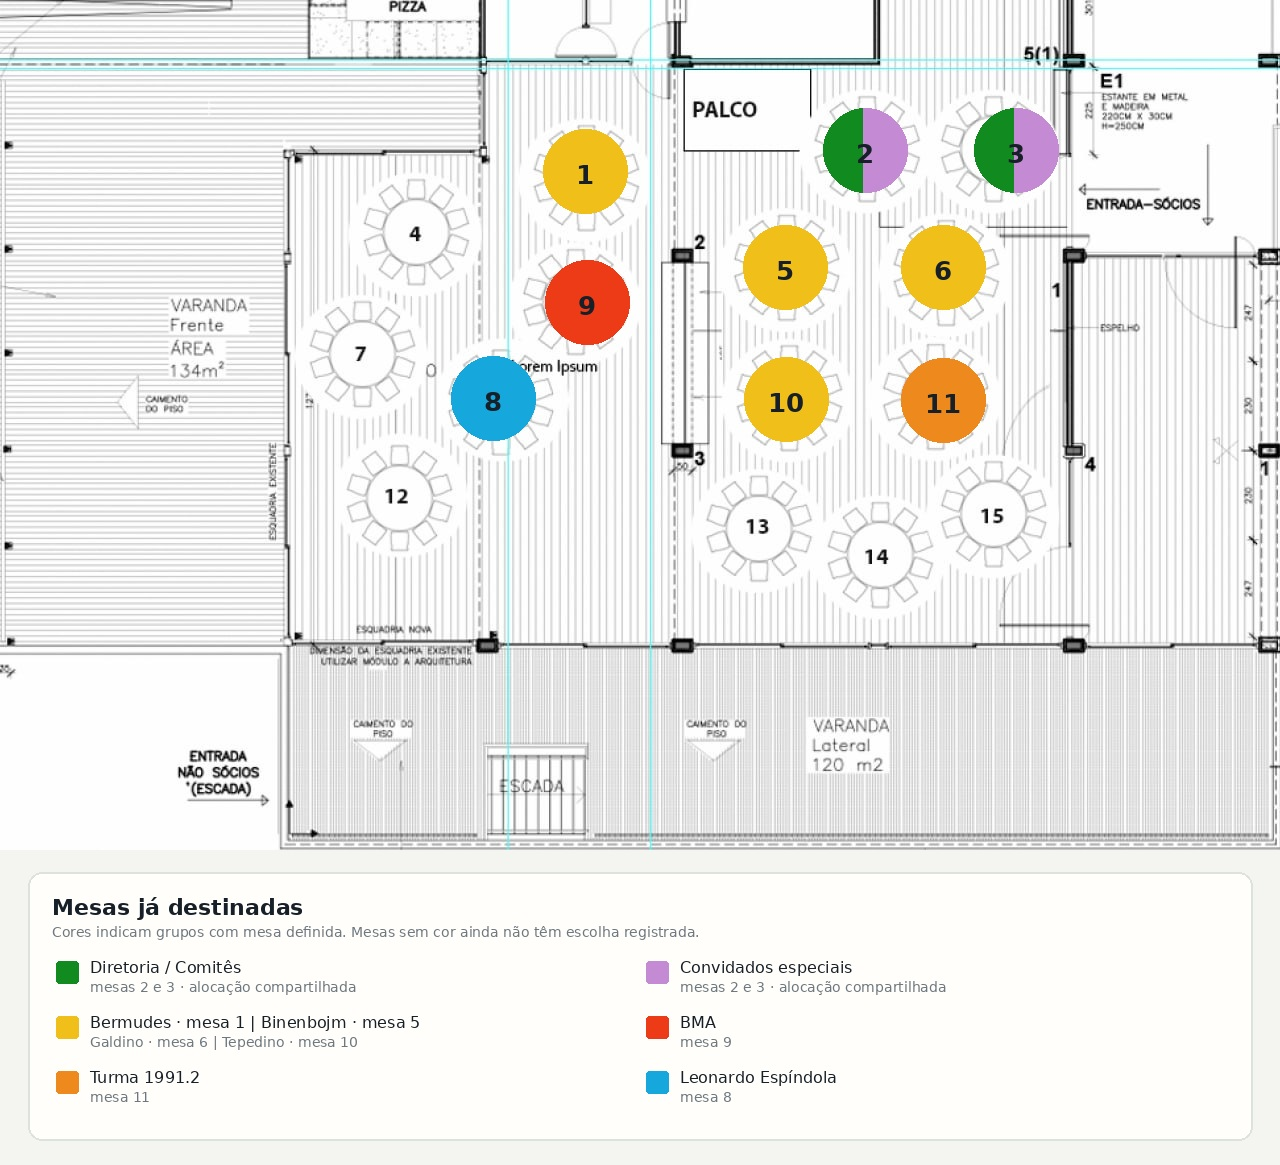
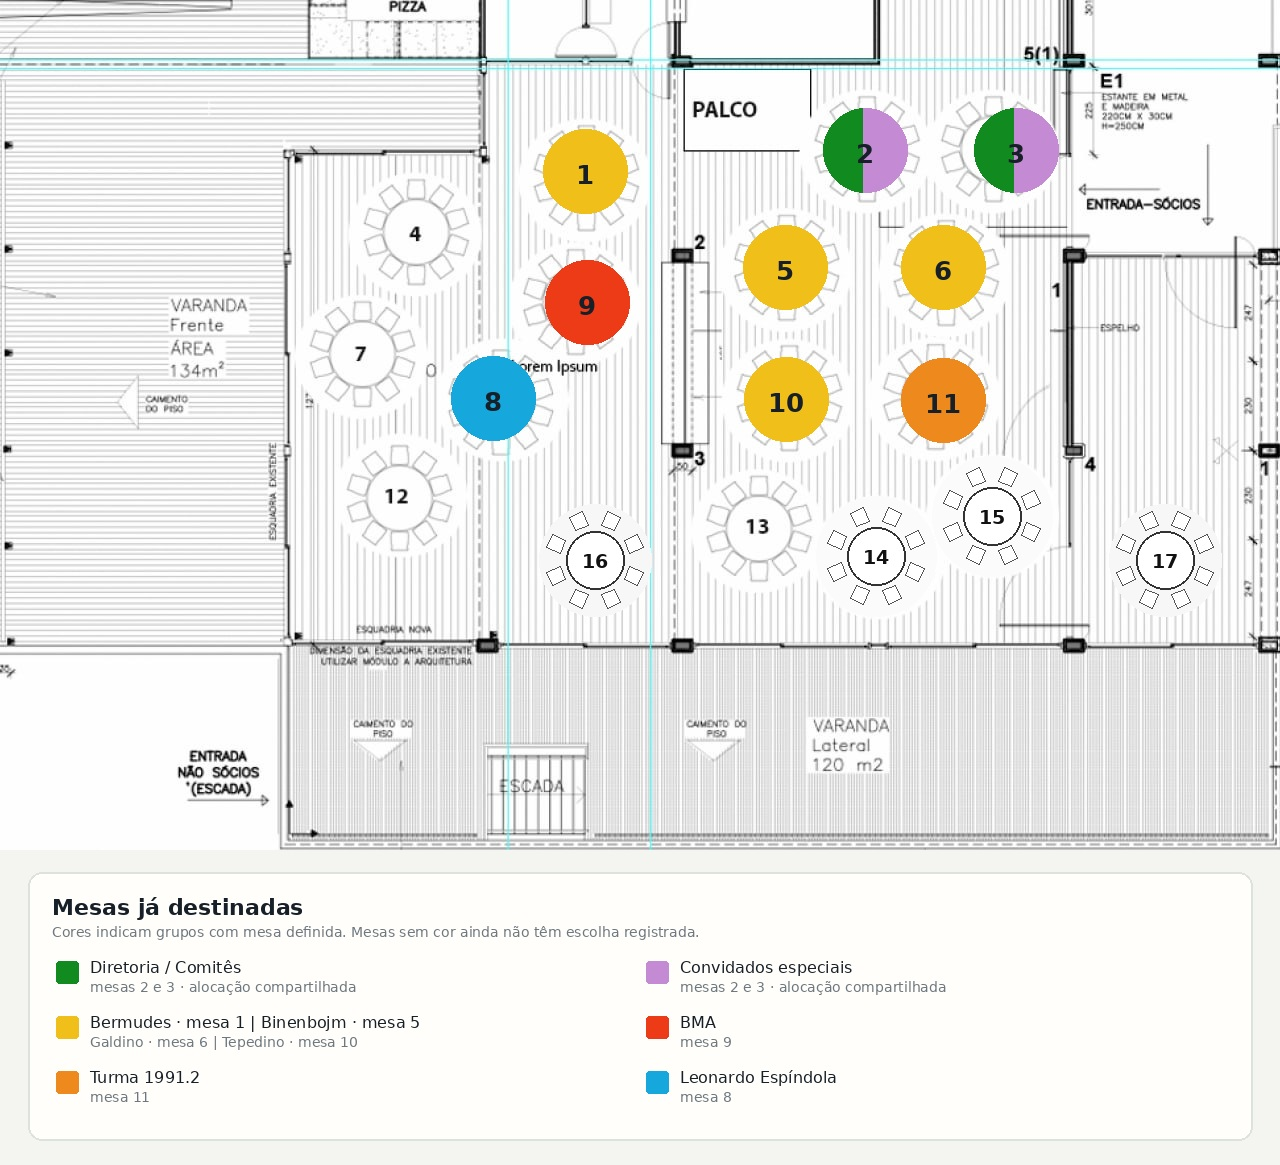
Mapa: mesas 14 e 15 de 8 lugares; inclui mesas 16 e 17

Changed region(s): [[0.6562, 0.4017, 0.8125, 0.5253], [0.875, 0.4326, 0.9375, 0.5253], [0.4375, 0.4326, 0.5, 0.5253]]

diff --git a/index.html b/index.html
@@ -16,7 +16,7 @@
 <div class="scenarios"><table><thead><tr><th>Cenário</th><th>Convidados</th><th>Buffet + vinho</th><th>Serviço</th><th>Local</th><th>Extras comuns</th><th>Outros extras</th><th>Total estimado</th><th>Por pessoa</th></tr></thead><tbody id="scenarioRows"></tbody></table></div>
 <div class="section"><div><h2>Premissas e detalhamento</h2><p>Campos em azul podem ser ajustados para simular novas condições.</p></div><p>As alterações não são salvas no painel.</p></div>
 <section class="grid"><div class="panel"><h3>Premissas e extras</h3><p class="intro">Ajuste os valores negociados. O comparativo e os totais são recalculados imediatamente.</p><h4>Premissas-base</h4><div class="input-header"><span>Item</span><span>Estimado</span><span>Consolidado</span><span>Status</span></div><div class="inputs" id="eventAssumptions"></div><h4>Extras comuns</h4><div class="input-header"><span>Item</span><span>Estimado</span><span>Consolidado</span><span>Status</span></div><div class="inputs" id="commonExtras"></div><h4>Outros extras</h4><div class="input-header"><span>Item</span><span>Estimado</span><span>Consolidado</span><span>Status</span></div><div class="inputs" id="otherExtrasInputs"></div><div class="actions"><button class="btn alt" onclick="resetAll()">Restaurar base</button><button class="btn alt" onclick="downloadExcel()">Baixar simulação Excel</button><button class="btn" onclick="window.print()">Imprimir / PDF</button></div></div><div class="panel"><div class="detail-head"><div><h3 id="detailTitle">Composição</h3><p class="intro" id="detailIntro">Selecione um cenário.</p></div><select class="select" id="selectScenario" onchange="render()"></select></div><div class="breakdown" id="breakdown"></div></div></section>
-<section class="section"><div><h2>Mapa de mesas · Páreo</h2><p>Planta preliminar para organização do jantar.</p></div></section><img class="seating-map" src="assets/mapa-mesas-pareo-colorido.jpg" alt="Mapa colorido de mesas do Páreo com grupos já destinados"><p class="map-caption">Cores indicam mesas já destinadas; mesas sem cor ainda não têm escolha registrada. A legenda detalha grupos e numerações.</p><section class="section"><div><h2>Fornecedores e pagamentos</h2><p>Dados consolidados a partir das propostas e do histórico de contatos.</p></div></section><div class="scenarios"><table><thead><tr><th>Fornecedor</th><th>Material ou serviço</th><th>Preço</th><th>Contato</th><th>WhatsApp</th><th>Entrega</th><th>Dados para pagamento</th><th>Situação</th></tr></thead><tbody id="supplierRows"></tbody></table></div><section class="section"><div><h2>Checklist</h2><p>Pendências operacionais para o dia 09/11.</p></div></section><ol class="checklist"><li><label><input type="checkbox" checked> <span><b>Pagar saldo do Páreo: R$ 47.064,00</b> · <b>pago em 05/11</b>.</span></label></li><li><label><input type="checkbox" checked> Pedir à AVSC os dados de pagamento · recebidos (recibo 16590, vence 06/11).</label></li><li><label><input type="checkbox"> Avisar fornecedores: entrada de serviço pela <b>Av. Borges de Medeiros, 1601</b>, somente veículos de carga. Carros não entram.</label></li><li><label><input type="checkbox"> Acertar a frase do backdrop.</label></li><li><label><input type="checkbox"> Ver recolhimento com Suzana.</label></li><li><label><input type="checkbox"> Cobrar orçamento dos crachás.</label></li><li><label><input type="checkbox"> <span><b>Mesas:</b> serão 15 mesas de 10 e 4 mesas de 8 (19 no total).</span></label></li><li><label><input type="checkbox"> Pedir decoração extra, além das toalhas.</label></li><li><label><input type="checkbox"> Pedir à Lona Cristal para tirar 2 mesas de 10, porque o Páreo já tem.</label></li><li><label><input type="checkbox"> As mesas <b>14 e 15</b> serão de 8 lugares.</label></li><li><label><input type="checkbox"> Avisar a todos o horário do jantar: <b>19h às 23h</b>.</label></li></ol><p class="foot">Uso interno da organização do Jantar dos Amigos Direito UERJ. Este painel consolida a planilha comparativa fornecida e não substitui cotações, contratos ou aprovações formais.</p>
+<section class="section"><div><h2>Mapa de mesas · Páreo</h2><p>Planta preliminar · mesas 14 a 17 com 8 lugares.</p></div></section><img class="seating-map" src="assets/mapa-mesas-pareo-colorido.jpg" alt="Mapa colorido de mesas do Páreo com grupos já destinados"><p class="map-caption">Cores indicam mesas já destinadas; mesas sem cor ainda não têm escolha registrada. A legenda detalha grupos e numerações.</p><section class="section"><div><h2>Fornecedores e pagamentos</h2><p>Dados consolidados a partir das propostas e do histórico de contatos.</p></div></section><div class="scenarios"><table><thead><tr><th>Fornecedor</th><th>Material ou serviço</th><th>Preço</th><th>Contato</th><th>WhatsApp</th><th>Entrega</th><th>Dados para pagamento</th><th>Situação</th></tr></thead><tbody id="supplierRows"></tbody></table></div><section class="section"><div><h2>Checklist</h2><p>Pendências operacionais para o dia 09/11.</p></div></section><ol class="checklist"><li><label><input type="checkbox" checked> <span><b>Pagar saldo do Páreo: R$ 47.064,00</b> · <b>pago em 05/11</b>.</span></label></li><li><label><input type="checkbox" checked> Pedir à AVSC os dados de pagamento · recebidos (recibo 16590, vence 06/11).</label></li><li><label><input type="checkbox"> Avisar fornecedores: entrada de serviço pela <b>Av. Borges de Medeiros, 1601</b>, somente veículos de carga. Carros não entram.</label></li><li><label><input type="checkbox"> Acertar a frase do backdrop.</label></li><li><label><input type="checkbox"> Ver recolhimento com Suzana.</label></li><li><label><input type="checkbox"> Cobrar orçamento dos crachás.</label></li><li><label><input type="checkbox"> <span><b>Mesas:</b> serão 15 mesas de 10 e 4 mesas de 8 (19 no total).</span></label></li><li><label><input type="checkbox"> Pedir decoração extra, além das toalhas.</label></li><li><label><input type="checkbox"> Pedir à Lona Cristal para tirar 2 mesas de 10, porque o Páreo já tem.</label></li><li><label><input type="checkbox"> As mesas <b>14 e 15</b> serão de 8 lugares.</label></li><li><label><input type="checkbox"> Avisar a todos o horário do jantar: <b>19h às 23h</b>.</label></li></ol><p class="foot">Uso interno da organização do Jantar dos Amigos Direito UERJ. Este painel consolida a planilha comparativa fornecida e não substitui cotações, contratos ou aprovações formais.</p>
 </main>
 <script>
 const base={buffet:359,wineTotal:7250,corkage:30,corkageBottles:75,service:10,pareoFee:8000,production:3700,photographer:900,sound:4495,backdrop:2420.75,wristband:0,displays:200,flowers:2450,printing:55,tables:5500,tablecloths:2100};

diff --git a/create_colored_seating_plan.py b/create_colored_seating_plan.py
@@ -1,0 +1,66 @@
+from PIL import Image, ImageDraw, ImageFont
+from pathlib import Path
+
+src=Path('/home/aureo/jantar-amigos-direito-uerj/assets/mapa-mesas-pareo.jpg')
+out=Path('/home/aureo/jantar-amigos-direito-uerj/assets/mapa-mesas-pareo-colorido.jpg')
+base=Image.open(src).convert('RGBA')
+
+# Mesas de 8 lugares: 14 e 15 redesenhadas 10% menores; 16 e 17 incluídas embaixo.
+import math
+bd=ImageDraw.Draw(base,'RGBA')
+tnum=ImageFont.truetype('/usr/share/fonts/truetype/dejavu/DejaVuSans-Bold.ttf',19)
+def table8(cx,cy,label,clear=True):
+    if clear: bd.ellipse((cx-60,cy-60,cx+60,cy+60),fill='#fbfbfb')
+    else: bd.ellipse((cx-56,cy-56,cx+56,cy+56),fill='#f7f7f7')
+    r=29; cr=42; s=7.2
+    for k in range(8):
+        a=math.radians(k*45+22.5); x=cx+cr*math.cos(a); y=cy+cr*math.sin(a)
+        pts=[(x+s*math.cos(a+math.radians(t))*1.41,y+s*math.sin(a+math.radians(t))*1.41) for t in (45,135,225,315)]
+        bd.polygon(pts,fill='#ffffff',outline='#555555')
+    bd.ellipse((cx-r,cy-r,cx+r,cy+r),fill='#ffffff',outline='#333333',width=2)
+    b=bd.textbbox((0,0),label,font=tnum); bd.text((cx-(b[2]-b[0])/2,cy-(b[3]-b[1])/2-3),label,font=tnum,fill='#111111')
+table8(876,556,'14'); table8(992,516,'15')
+table8(595,560,'16',clear=False); table8(1165,560,'17',clear=False)
+canvas=Image.new('RGBA',(1280,1165),'#f4f5f0')
+canvas.alpha_composite(base,(0,0))
+d=ImageDraw.Draw(canvas,'RGBA')
+font='/usr/share/fonts/truetype/dejavu/DejaVuSans.ttf'
+bold='/usr/share/fonts/truetype/dejavu/DejaVuSans-Bold.ttf'
+num=ImageFont.truetype(bold,26)
+title=ImageFont.truetype(bold,22)
+text=ImageFont.truetype(font,16)
+small=ImageFont.truetype(font,14)
+
+# Table center coordinates. Selected tables receive a translucent fill, preserving plan geometry.
+centers={1:(585,171),2:(865,150),3:(1016,150),5:(785,267),6:(943,267),8:(493,398),9:(587,302),10:(786,399),11:(943,400)}
+colors={1:'#f0bf19',5:'#f0bf19',6:'#f0bf19',10:'#f0bf19',8:'#16a7dd',9:'#ee3b17',11:'#ee8a1d'}
+for table,color in colors.items():
+    x,y=centers[table]; d.ellipse((x-42,y-42,x+42,y+42),fill=color+'B3',outline=color+'FF',width=5)
+    label=str(table); box=d.textbbox((0,0),label,font=num); d.text((x-(box[2]-box[0])/2,y-(box[3]-box[1])/2-2),label,font=num,fill='#172029')
+# Split marking for tables 2 and 3: shared allocation between internal board and special guests.
+for table in (2,3):
+    x,y=centers[table]
+    d.pieslice((x-42,y-42,x+42,y+42),90,270,fill='#118a20B3',outline='#118a20FF',width=4)
+    d.pieslice((x-42,y-42,x+42,y+42),270,90,fill='#c48ad3B3',outline='#c48ad3FF',width=4)
+    label=str(table); box=d.textbbox((0,0),label,font=num); d.text((x-(box[2]-box[0])/2,y-(box[3]-box[1])/2-2),label,font=num,fill='#172029')
+
+# Legend below the plan.
+y0=872
+d.rounded_rectangle((28,y0,1252,1140),radius=14,fill='#fffefa',outline='#dce2de',width=2)
+d.text((52,y0+22),'Mesas já destinadas',font=title,fill='#172029')
+d.text((52,y0+52),'Cores indicam grupos com mesa definida. Mesas sem cor ainda não têm escolha registrada.',font=small,fill='#6e7880')
+entries=[
+ ('#118a20','Diretoria / Comitês','mesas 2 e 3 · alocação compartilhada'),
+ ('#c48ad3','Convidados especiais','mesas 2 e 3 · alocação compartilhada'),
+ ('#f0bf19','Bermudes · mesa 1 | Binenbojm · mesa 5','Galdino · mesa 6 | Tepedino · mesa 10'),
+ ('#ee3b17','BMA','mesa 9'),
+ ('#ee8a1d','Turma 1991.2','mesa 11'),
+ ('#16a7dd','Leonardo Espíndola','mesa 8'),
+]
+for i,(color,name,detail) in enumerate(entries):
+    col=i%2; row=i//2; x=55+col*590; y=y0+88+row*55
+    d.rounded_rectangle((x,y,x+24,y+24),radius=5,fill=color,outline='#ffffff',width=1)
+    d.text((x+35,y-2),name,font=text,fill='#172029')
+    d.text((x+35,y+19),detail,font=small,fill='#6e7880')
+canvas.convert('RGB').save(out,quality=94)
+print(out)
